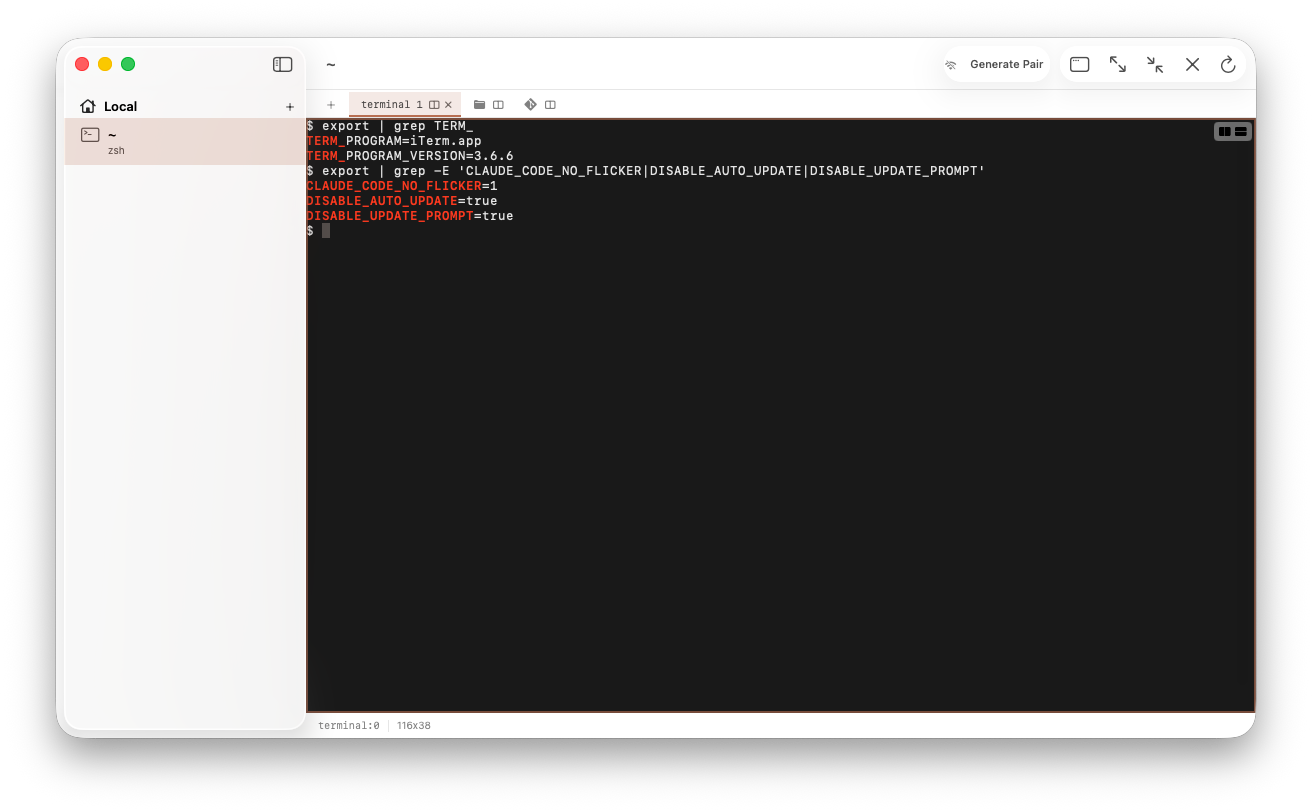
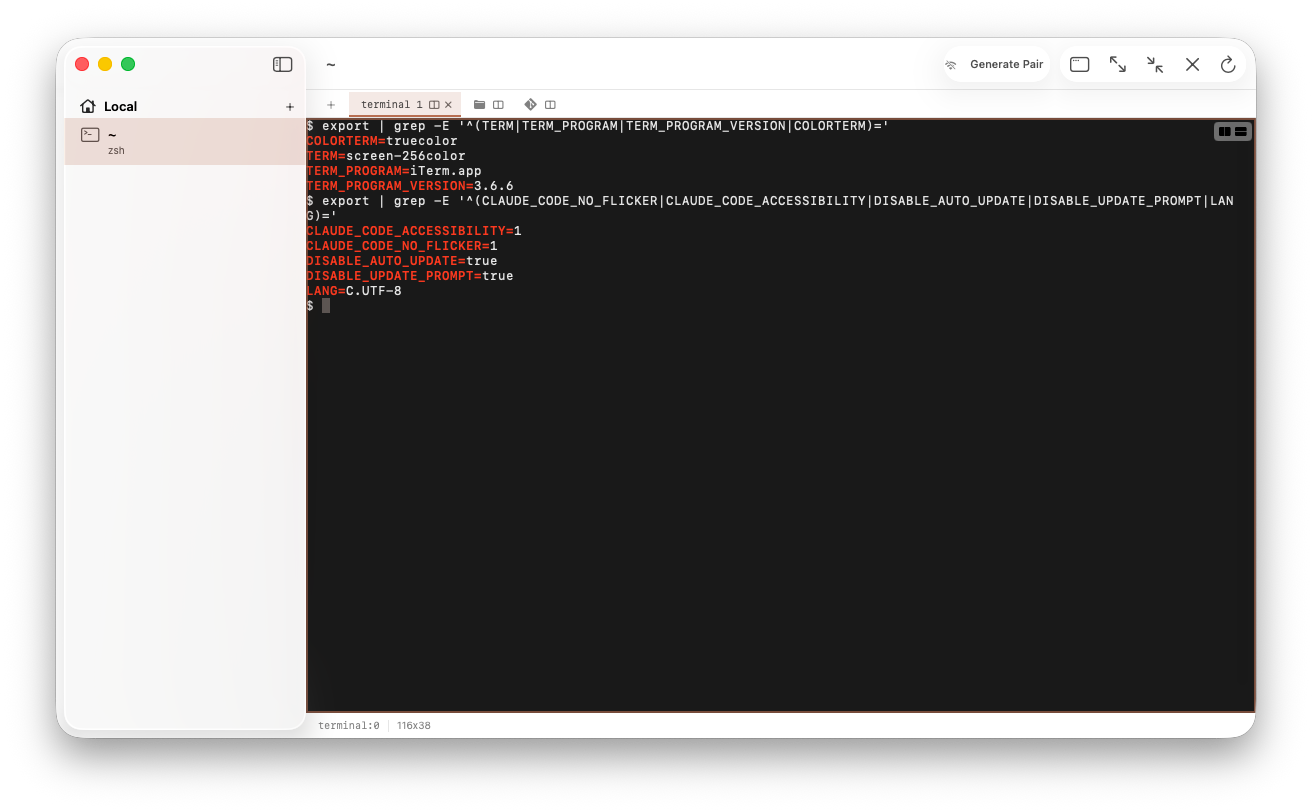
feat(tmux): improve mirror terminal fidelity (truecolor, 256-color TERM, UTF-8 locale, accessibility cursor) (#596)
* feat(tmux): improve mirror terminal fidelity via session env + tmux options

Pin a 256-color TERM, advertise truecolor, and a UTF-8 locale for every
app-created session so the SwiftTerm mirror renders agents' output faithfully.

- baseEnvironmentVars: add COLORTERM=truecolor and CLAUDE_CODE_ACCESSIBILITY=1,
  plus a UTF-8 LANG (preserve an inherited UTF-8 locale, else en_US.UTF-8) so
  Finder/Dock launches — which inherit no LANG — still get correct wide-char
  cell widths. CLAUDE_CODE_ACCESSIBILITY keeps Claude Code's native cursor (no
  inverted-text cursor), which renders more faithfully in the mirror and for
  remote iOS viewers.
- createSession: pin `default-terminal screen-256color` before new-session so
  the first pane's TERM is 256-color capable (chosen over tmux-256color, whose
  terminfo is missing on some macOS installs). TERM can't be set via `-e` —
  tmux assigns it at pane spawn, like TERM_PROGRAM.
- applyExtendedKeysOptions -> applyTerminalFeatureOptions: also append
  `xterm*:RGB` so 24-bit color passes through tmux to the mirror instead of
  being quantized to 256 colors.

Verified end-to-end via the gallager CLI: a new app-created pane reports
TERM=screen-256color COLORTERM=truecolor CLAUDE_CODE_ACCESSIBILITY=1, and the
server carries terminal-features xterm*:RGB + xterm*:extkeys.

* test(e2e): cover new terminal env vars in TerminalEnvVarsScenario

Extend the scenario that exercises TmuxService.createSession (via the
[…]

Changed region(s): [[0.2188, 0.1539, 0.75, 0.4002], [0.6562, 0.2463, 0.9062, 0.2771], [0.4688, 0.2463, 0.625, 0.2771]]

diff --git a/ClaudeSpyPackage/Sources/ClaudeSpyServerFeature/Services/TmuxService.swift b/ClaudeSpyPackage/Sources/ClaudeSpyServerFeature/Services/TmuxService.swift
@@ -78,13 +78,35 @@ enum PaneSurfaceRetry {
 @MainActor
 final public class TmuxService {
     /// Base environment variables set on all sessions/windows/panes created by the app.
-    /// Includes Claude Code rendering config and oh-my-zsh update suppression.
+    /// Includes Claude Code rendering/accessibility config, color + locale fidelity
+    /// hints for the mirror, and oh-my-zsh update suppression.
     private static let baseEnvironmentVars: [String] = {
         var vars = [
             "CLAUDE_CODE_NO_FLICKER=1",
             "DISABLE_AUTO_UPDATE=true",
             "DISABLE_UPDATE_PROMPT=true",
+            // Advertise 24-bit color so agents (Claude Code, Codex) and other CLI
+            // tools emit RGB sequences instead of downgrading to 256 colors. The
+            // matching `RGB` terminal-feature (see applyTerminalFeatureOptions) lets
+            // tmux pass that truecolor through to the SwiftTerm mirror.
+            "COLORTERM=truecolor",
+            // Keep the native terminal cursor visible and disable Claude Code's
+            // inverted-text (reverse-video) cursor. A real cursor renders more
+            // faithfully in the mirror and is clearer for remote iOS viewers.
+            "CLAUDE_CODE_ACCESSIBILITY=1",
         ]
+        // Pin a UTF-8 locale so wide characters, box-drawing, and emoji get the
+        // correct cell widths in the mirror. Apps launched from Finder/Dock often
+        // inherit no LANG at all; fall back to a UTF-8 default in that case, but
+        // preserve an already-UTF-8 locale so a non-US user keeps their region.
+        let inheritedLang = ProcessInfo.processInfo.environment["LANG"]
+        if
+            let inheritedLang,
+            inheritedLang.uppercased().contains("UTF-8") || inheritedLang.uppercased().contains("UTF8") {
+            vars.append("LANG=\(inheritedLang)")
+        } else {
+            vars.append("LANG=en_US.UTF-8")
+        }
         // Pin spawned panes to the app's own TMPDIR so tooling that resolves
         // `$TMPDIR/<file>` sees the same temp dir the app does. In production this
         // equals the value panes already inherit from the app-owned tmux server (a
@@ -2553,24 +2575,36 @@ final public class TmuxService {
 
     // MARK: - Session Creation
 
-    /// Forces the server-wide tmux options needed for modified keys (notably
-    /// Shift+Enter) to round-trip cleanly to apps like Claude Code, so users
-    /// don't need to add these lines to their `~/.tmux.conf`. `extended-keys`
-    /// is a scalar so re-setting it is harmless. `terminal-features` is a
-    /// list option and tmux's `-a` appends without deduping, so we read the
-    /// current value first and only append `xterm*:extkeys` if it isn't
-    /// already present — otherwise the value would grow into
-    /// `xterm*:extkeys,xterm*:extkeys,…` over a long-running server.
-    private func applyExtendedKeysOptions() async {
+    /// Forces the server-wide tmux options needed for high-fidelity passthrough to
+    /// apps like Claude Code, so users don't need to add these lines to their
+    /// `~/.tmux.conf`:
+    ///  - `extended-keys on` + the `xterm*:extkeys` feature so modified keys
+    ///    (notably Shift+Enter) round-trip cleanly.
+    ///  - the `xterm*:RGB` feature so 24-bit color (advertised to agents via
+    ///    `COLORTERM=truecolor`) reaches the mirror instead of being quantized to
+    ///    256 colors.
+    ///
+    /// `extended-keys` is a scalar so re-setting it is harmless. `terminal-features`
+    /// is a list option and tmux's `-a` appends without deduping, so we read the
+    /// current value first and only append a feature if it isn't already present —
+    /// otherwise the value would grow into `…,xterm*:extkeys,xterm*:extkeys,…` over
+    /// a long-running server.
+    private func applyTerminalFeatureOptions() async {
         _ = try? await runTmuxCommand(["set-option", "-s", "extended-keys", "on"])
 
         let current = (try? await runTmuxCommand(["show-options", "-sv", "terminal-features"]))?
             .stdoutString
             .trimmingCharacters(in: .whitespacesAndNewlines) ?? ""
-        guard !current.contains("xterm*:extkeys") else { return }
-        _ = try? await runTmuxCommand([
-            "set-option", "-sa", "terminal-features", "xterm*:extkeys",
-        ])
+        if !current.contains("xterm*:extkeys") {
+            _ = try? await runTmuxCommand([
+                "set-option", "-sa", "terminal-features", "xterm*:extkeys",
+            ])
+        }
+        if !current.contains("xterm*:RGB") {
+            _ = try? await runTmuxCommand([
+                "set-option", "-sa", "terminal-features", "xterm*:RGB",
+            ])
+        }
     }
 
     /// Creates a new tmux session with the specified name and dimensions.
@@ -2606,14 +2640,20 @@ final public class TmuxService {
         // -n: name the first window up front so the tab doesn't briefly show
         //     the shell command name before we rename it
         let allEnvironmentVars = terminalEnvironmentVars + extraEnvironment
-        // Chain `set-option -g default-command … ; new-session …` in one tmux
-        // invocation. `set-option` needs a running server, but we need the
-        // wrapper installed *before* `new-session` so the first pane uses it.
-        // Within a single tmux call the server is started, then commands run
-        // in order — so set-option succeeds and the new session inherits the
-        // just-set global default-command. Repeating this on every session
-        // create is harmless (idempotent) and avoids tracking server lifetime.
+        // Chain `set-option -g default-terminal … ; set-option -g default-command
+        // … ; new-session …` in one tmux invocation. `set-option` needs a running
+        // server, but we need both options installed *before* `new-session` so the
+        // first pane uses them. Within a single tmux call the server is started,
+        // then commands run in order — so the set-options succeed and the new
+        // session inherits them. `default-terminal` pins the pane's TERM to a
+        // 256-color entry (tmux otherwise spawns with its build default, which can
+        // be the 8-color `screen`); `screen-256color` is chosen over the richer
+        // `tmux-256color` because the latter's terminfo entry is missing on some
+        // macOS installs. Repeating this on every session create is harmless
+        // (idempotent) and avoids tracking server lifetime.
         var args = [
+            "set-option", "-g", "default-terminal", "screen-256color",
+            ";",
             "set-option", "-g", "default-command", defaultCommandWrapper,
             ";",
             "new-session",
@@ -2636,12 +2676,13 @@ final public class TmuxService {
             throw TmuxError.commandFailed(message: result.stderrString)
         }
 
-        // Apply server-wide options required for extended-key passthrough so
-        // Shift+Enter (and other modified keys) reach apps like Claude Code
-        // without the user editing ~/.tmux.conf. Server options are global and
-        // idempotent — re-running on each session create is harmless and
-        // additive (`-a` appends to the terminal-features list).
-        await applyExtendedKeysOptions()
+        // Apply server-wide options required for extended-key and truecolor
+        // passthrough so Shift+Enter (and other modified keys) and 24-bit color
+        // reach apps like Claude Code without the user editing ~/.tmux.conf.
+        // Server options are global and idempotent — re-running on each session
+        // create is harmless and additive (`-a` appends to the terminal-features
+        // list).
+        await applyTerminalFeatureOptions()
 
         // Get the pane ID of the first pane in the new session
         // Target format: session:window.pane (first window, first pane)

diff --git a/ClaudeSpyPackage/Sources/ClaudeSpyE2ELib/Scenarios/TerminalEnvVarsScenario.swift b/ClaudeSpyPackage/Sources/ClaudeSpyE2ELib/Scenarios/TerminalEnvVarsScenario.swift
@@ -3,12 +3,17 @@ import Foundation
 /// E2E scenario: Verify env vars set on shells spawned via the macOS app's
 /// "New Terminal" button.
 ///
-/// Two paths are exercised:
+/// Exercises every var Gallager injects into app-created panes:
 /// 1. `TERM_PROGRAM=iTerm.app` / `TERM_PROGRAM_VERSION=3.6.6` — installed via
 ///    tmux's `default-command` wrapper to spoof iTerm so Claude Code emits
 ///    OSC 9;4 progress sequences (#477). tmux 3.2+ overrides `-e TERM_PROGRAM`
 ///    at shell-spawn time, so this path is the only one that works.
-/// 2. `CLAUDE_CODE_NO_FLICKER=1`, `DISABLE_AUTO_UPDATE=true`,
+/// 2. `TERM=screen-256color` — pinned via the server `default-terminal` option
+///    (assigned at shell-spawn time like TERM_PROGRAM, so `-e TERM` wouldn't
+///    stick) so the mirror gets a 256-color-capable terminal instead of tmux's
+///    build default.
+/// 3. `CLAUDE_CODE_NO_FLICKER=1`, `COLORTERM=truecolor`,
+///    `CLAUDE_CODE_ACCESSIBILITY=1`, `LANG=<utf8>`, `DISABLE_AUTO_UPDATE=true`,
 ///    `DISABLE_UPDATE_PROMPT=true` — set via tmux `new-session -e` flags
 ///    (`baseEnvironmentVars`), which tmux honors for vars it doesn't
 ///    hardcode-overwrite.
@@ -16,7 +21,8 @@ import Foundation
 /// The terminal is created via the app's "New Terminal" button rather than
 /// `tmuxCreateSession` so the test exercises the same `TmuxService.createSession`
 /// code path users hit, including the chained `set-option ; new-session` that
-/// makes the wrapper apply to the very first pane in a fresh tmux server.
+/// makes the wrapper and `default-terminal` apply to the very first pane in a
+/// fresh tmux server.
 public enum TerminalEnvVarsScenario {
     public static let scenario = ClaudeSpyE2ELib.scenario(
         "Terminal Env Vars",
@@ -28,7 +34,8 @@ public enum TerminalEnvVarsScenario {
         TestStep.macWaitForElement(titled: "New Terminal", timeout: 5)
 
         // 2. Click "New Terminal" — this is the path users take, and the only
-        //    path that hits TmuxService.createSession with our wrapper chained.
+        //    path that hits TmuxService.createSession with our wrapper +
+        //    default-terminal chained.
         TestStep.macClickButton(titled: "New Terminal")
         TestStep.macWaitForElement(titled: "terminal", timeout: 10)
 
@@ -36,31 +43,44 @@ public enum TerminalEnvVarsScenario {
         TestStep.tmuxStorePaneId(target: "terminal", storeAs: "envPane")
         Shortcut.tmuxClearAndSetPrompt(target: "${envPane}")
 
-        // 4. Print the env vars we care about — both groups, sequentially.
+        // 4. Print the env vars we care about, grouped for a readable screenshot.
         //    Assumes zsh (macOS default and the shell our wrapper resolves on
         //    CI), where `export` without args prints raw `KEY=VALUE` lines —
-        //    no quoting, no `export ` prefix — so literal substring matches
-        //    work directly. bash would emit `declare -x KEY="VALUE"` which
-        //    would defeat the literal assertions below.
-        Shortcut.tmuxRunCommand(target: "${envPane}", command: "export | grep TERM_")
+        //    no quoting, no `export ` prefix — so the `^NAME=` anchors and the
+        //    literal substring assertions below match directly. bash would emit
+        //    `declare -x KEY="VALUE"` which would defeat both.
+        Shortcut.tmuxRunCommand(
+            target: "${envPane}",
+            command: "export | grep -E '^(TERM|TERM_PROGRAM|TERM_PROGRAM_VERSION|COLORTERM)='"
+        )
         TestStep.wait(seconds: 1)
         Shortcut.tmuxRunCommand(
             target: "${envPane}",
-            command: "export | grep -E 'CLAUDE_CODE_NO_FLICKER|DISABLE_AUTO_UPDATE|DISABLE_UPDATE_PROMPT'"
+            command: "export | grep -E '^(CLAUDE_CODE_NO_FLICKER|CLAUDE_CODE_ACCESSIBILITY|DISABLE_AUTO_UPDATE|DISABLE_UPDATE_PROMPT|LANG)='"
         )
         TestStep.wait(seconds: 1)
         TestStep.macScreenshot(label: "mac-env-vars-output")
 
-        // 5. Capture the pane and verify all 5 KEY=VALUE pairs surfaced
+        // 5. Capture the pane and verify each KEY=VALUE pair surfaced
         TestStep.tmuxCapturePaneContent(target: "${envPane}", storeAs: "envOutput")
 
         // TERM_PROGRAM* (default-command wrapper path)
         TestStep.assertStoredContains(key: "envOutput", substring: "TERM_PROGRAM=iTerm.app")
         TestStep.assertStoredContains(key: "envOutput", substring: "TERM_PROGRAM_VERSION=3.6.6")
 
+        // TERM pinned to a 256-color entry via the `default-terminal` option
+        TestStep.assertStoredContains(key: "envOutput", substring: "TERM=screen-256color")
+
         // baseEnvironmentVars (tmux `-e` path)
         TestStep.assertStoredContains(key: "envOutput", substring: "CLAUDE_CODE_NO_FLICKER=1")
+        TestStep.assertStoredContains(key: "envOutput", substring: "COLORTERM=truecolor")
+        TestStep.assertStoredContains(key: "envOutput", substring: "CLAUDE_CODE_ACCESSIBILITY=1")
         TestStep.assertStoredContains(key: "envOutput", substring: "DISABLE_AUTO_UPDATE=true")
         TestStep.assertStoredContains(key: "envOutput", substring: "DISABLE_UPDATE_PROMPT=true")
+        // LANG is always a UTF-8 locale, but the exact value depends on what the
+        // app inherited at launch (an already-UTF-8 locale is preserved, else the
+        // en_US.UTF-8 fallback applies), so assert presence rather than an exact,
+        // machine-dependent value.
+        TestStep.assertStoredContains(key: "envOutput", substring: "LANG=")
     }
 }